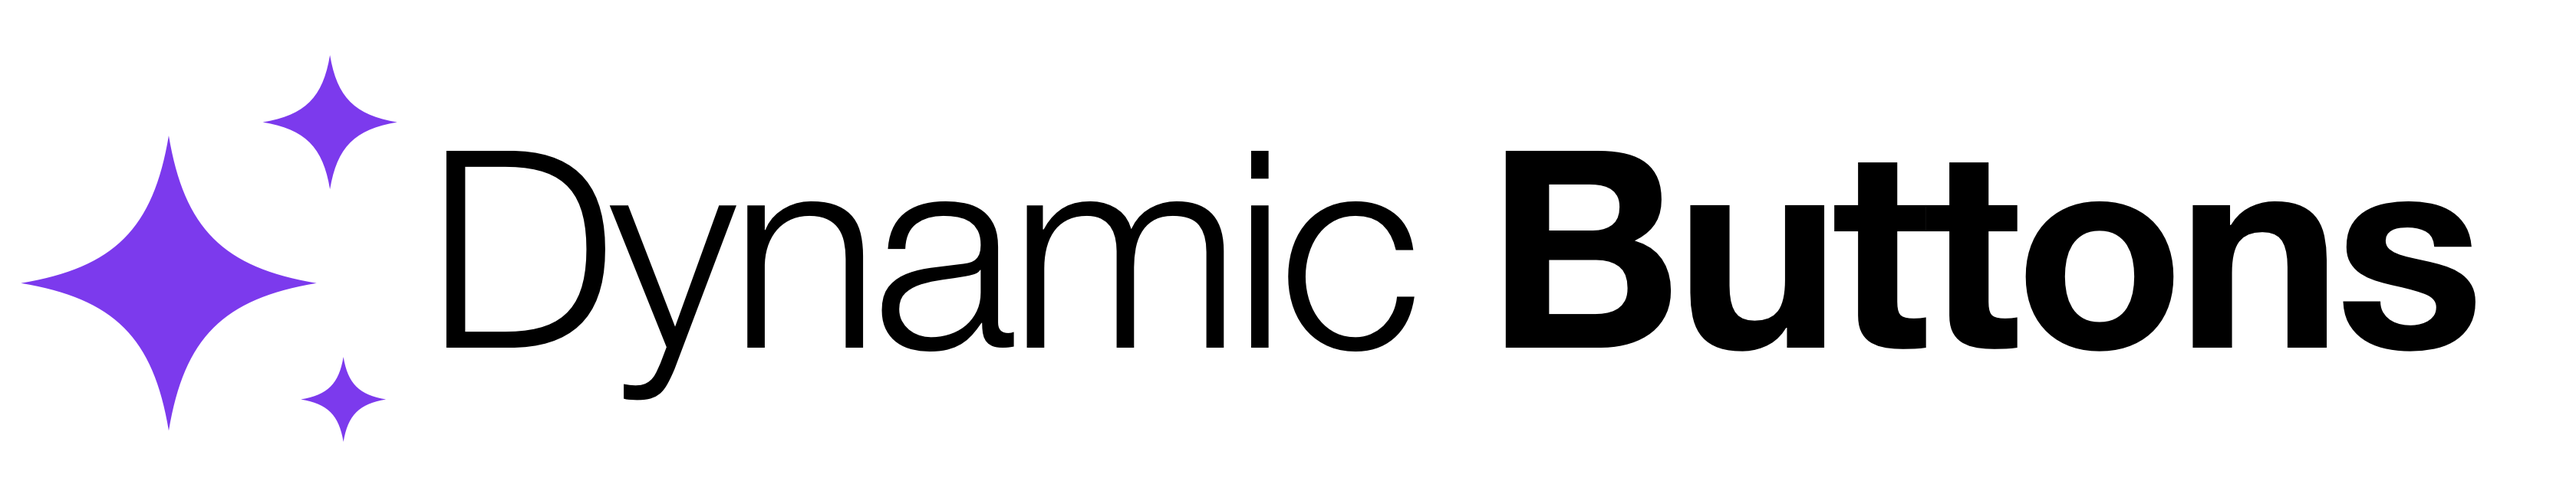
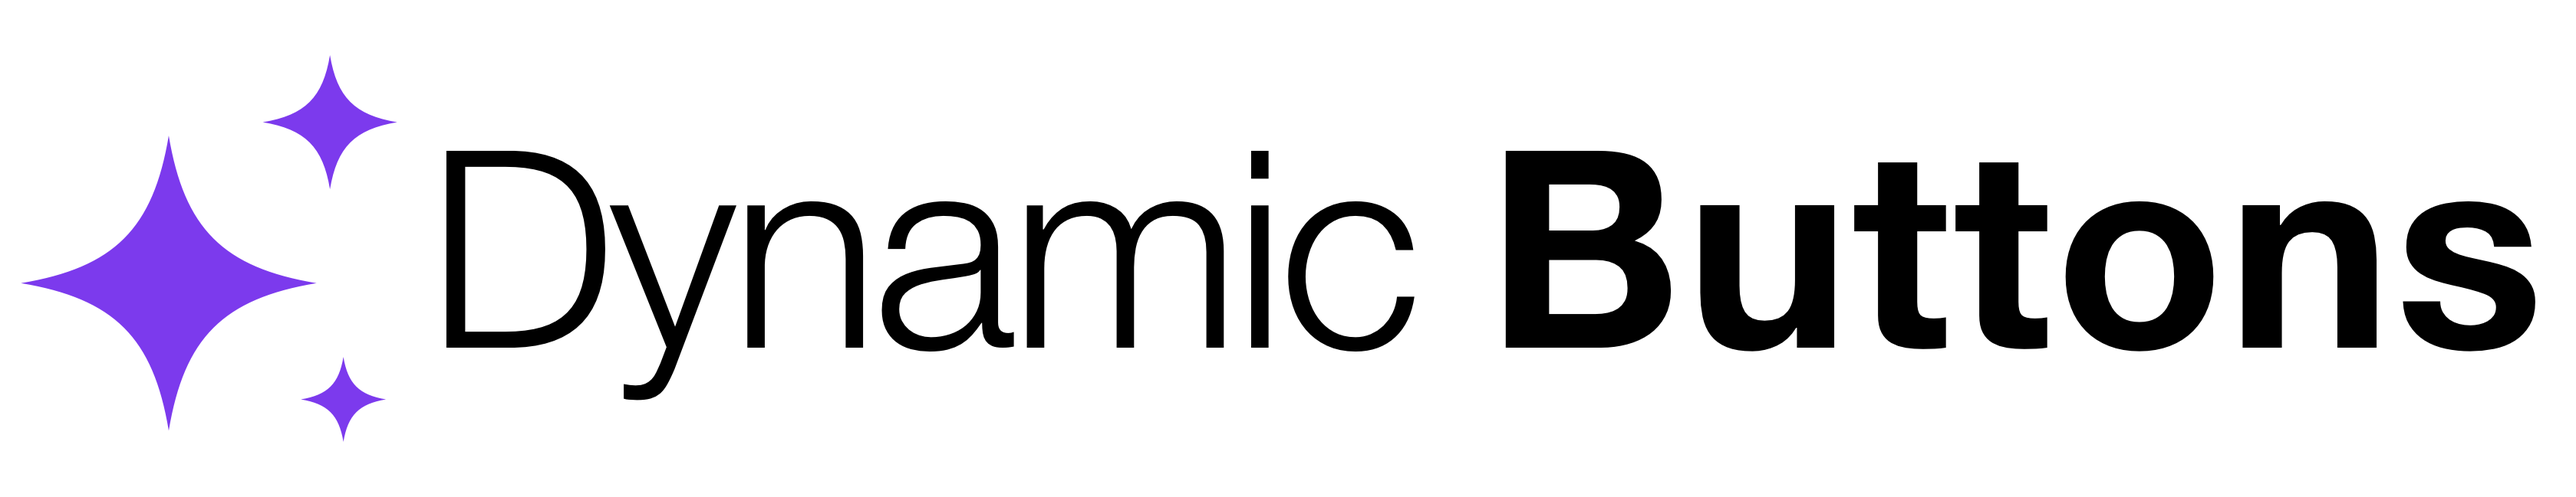
chore: the bold word in the header gets room between its letters

Changed region(s): [[0.6504, 0.3082, 0.9911, 0.7088]]

diff --git a/resources/drivercentral/banners/spotlight-4096x848.html b/resources/drivercentral/banners/spotlight-4096x848.html
@@ -29,8 +29,8 @@
 <h1>Dynamic Buttons for Control4.</h1>
 <div class="row">
   <div class="chip solid">Custom Navigator buttons</div>
-    <div class="chip line">Control4 OS 3.3.1+</div>
-    <div class="chip line">Local control</div>
+  <div class="chip line">Control4 OS 3.3.1+</div>
+  <div class="chip line">Local control</div>
 </div>
 <div class="sub">Any icon, <em>your colors and badges</em>, and looks that change with <em>Control4 programming</em>.</div>
 <div class="note">Control4 is a trademark of its owner, which is not affiliated with, and does not endorse, this product.</div>

diff --git a/resources/drivercentral/README.md b/resources/drivercentral/README.md
@@ -15,7 +15,7 @@ Marketing images for the driver's DriverCentral listing. Each banner and photo i
 ## Making the set
 
 1. Put the brand's logo in `assets/brand-mark.png`: the version its official kit makes for dark backgrounds, unedited, and note the kit's URL and usage terms in this README. Trim only its transparent margin. Never trace, redraw, recolor or crop the art, and never cut a mark out of a lockup the brand only supplies whole. A kit with no dark-background logo, or only one too small to stay sharp, gets a light hub (Banner art, below).
-2. In each page under `banners/`, replace "Driver Name", the chips and the line under them with what the driver does, from its docs and CHANGELOG. No tag lines, and no counts that change between releases (say "thousands of devices", not a number). The facts strip holds facts that stay true between releases: the Control4 OS it needs, the trial, local or cloud, what it controls.
+2. In each page under `banners/`, replace "Driver Name", the chips and the line under them with what the driver does, from its docs and CHANGELOG. No tag lines, except the launch post's "The last button driver you will ever need", and no counts that change between releases (say "thousands of devices", not a number). The facts strip holds facts that stay true between releases: the Control4 OS it needs, the trial, local or cloud, what it controls.
 3. Pick the banners' art on the `<svg class="scene">` element (Banner art, below). Both banners use the same attributes.
 4. In `photos/frame.html`, replace "Driver Name" beside the logo.
 5. Fill in the trademark notice at the bottom of the spotlight, the launch post and the photo frame: the brand's names and Control4, with any symbol or wording the brand's own guidelines require.
